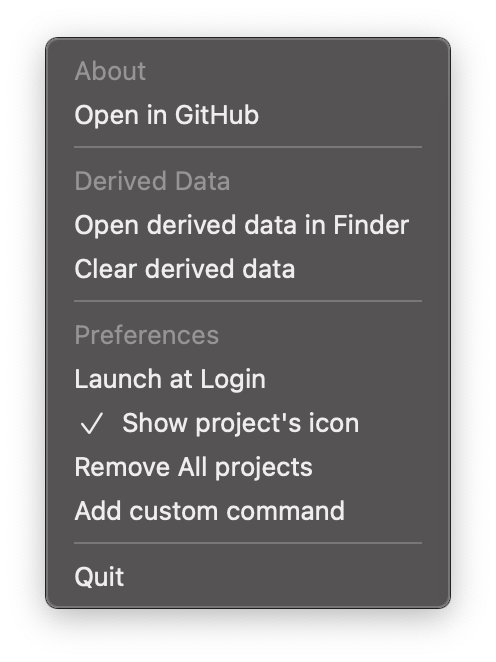
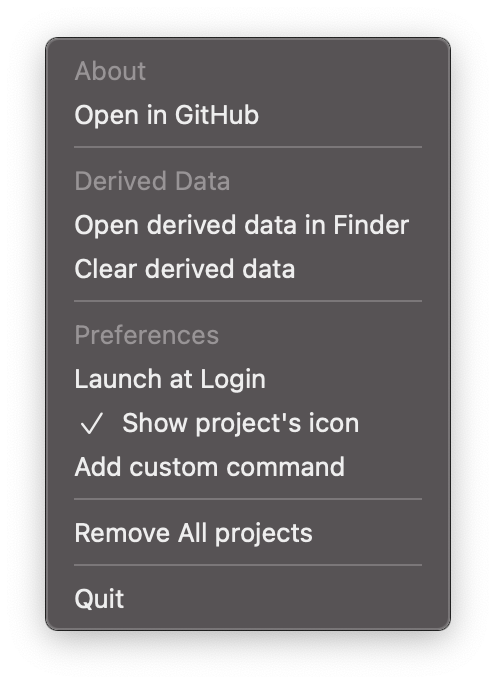
version 1.5.2 - added verification alert when remove all projects clicked

diff --git a/XcodeProjects/UI/Buttons/PreferencesView.swift b/XcodeProjects/UI/Buttons/PreferencesView.swift
@@ -10,6 +10,7 @@ import SwiftUI
 
 struct PreferencesView: View {
     @EnvironmentObject var preferences: Preferences
+    @State private var showingRemoveAllProjectsAlert = false
 
     var body: some View {
         MenuButton(label: Image("gear")) {
@@ -46,10 +47,6 @@ struct PreferencesView: View {
                     }.offset(x: -14, y: 0)
                 })
 
-                if !self.preferences.projects.isEmpty {
-                    Button(action: removeProjects, label: { Text("Remove All projects") })
-                }
-
                 Button(action: {
                     let controller = ProjectPreferencesViewController(preferences: preferences,
                                                                       type: .addTerminalCommand)
@@ -59,11 +56,25 @@ struct PreferencesView: View {
                 }, label: { Text("Add custom command") })
             }
 
+            if !self.preferences.projects.isEmpty {
+                DividerSection(title: nil)
+                Button("Remove All projects") {
+                    showingRemoveAllProjectsAlert = true
+                }
+            }
+
             DividerSection(title: nil)
             Button(action: quit, label: { Text("Quit") })
         }
-
         .menuButtonStyle(BorderlessButtonMenuButtonStyle())
+        .alert(isPresented: $showingRemoveAllProjectsAlert, content: {
+            Alert(title: Text("Remove all projects"),
+                  message: Text("You can't undo it later"),
+                  primaryButton: .default(Text("Remove"), action: {
+                    removeProjects()
+                  }),
+                  secondaryButton: .cancel(Text("No")))
+        })
     }
 }
 
